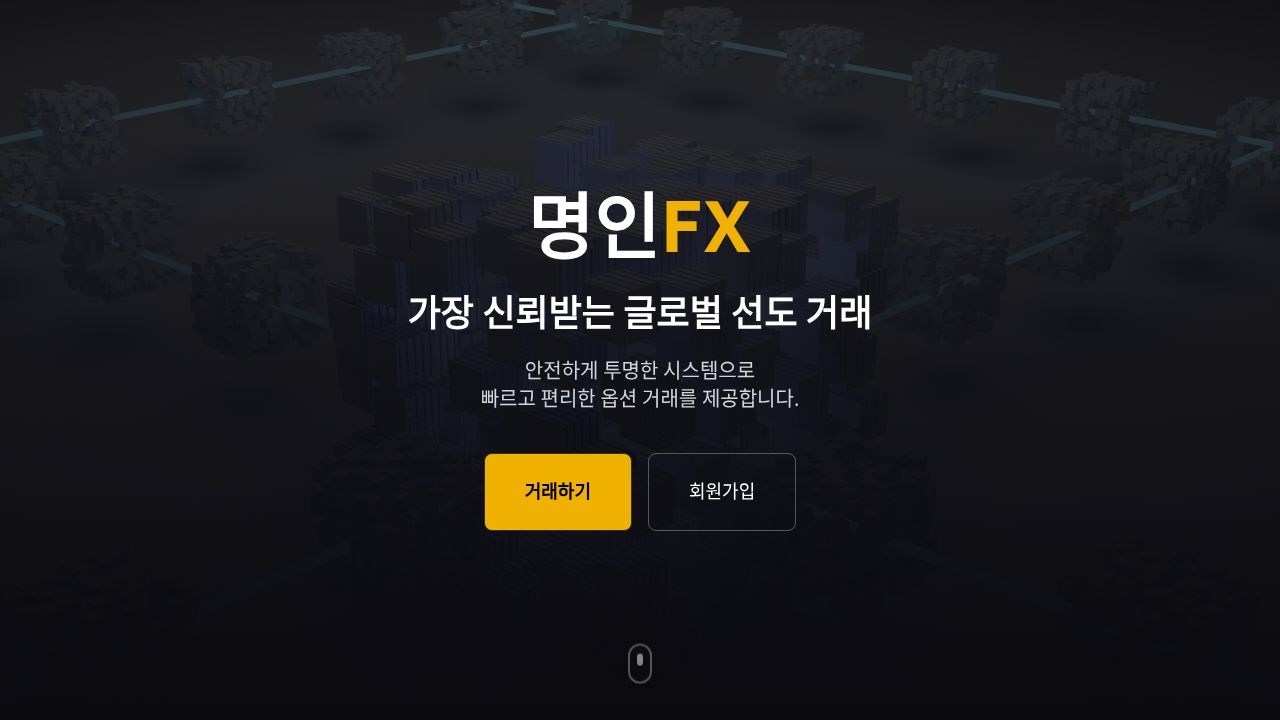
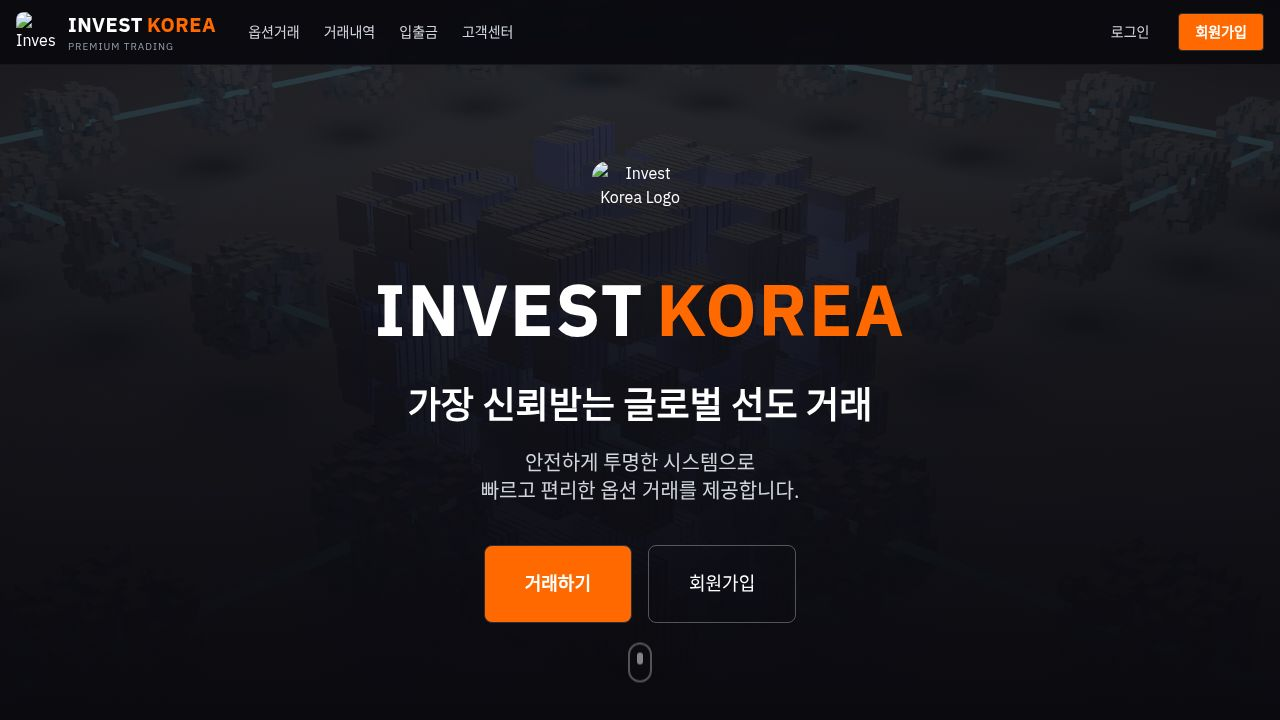
Add a premium login popup to the main screen
Replaces the login button navigation with a modal popup and integrates the login form into the modal component.

Replit-Commit-Author: Agent
Replit-Commit-Session-Id: af8db14b-458c-44db-ac22-345fda6eb96c
Replit-Commit-Checkpoint-Type: full_checkpoint
Replit-Commit-Event-Id: eecd75d1-ec39-4774-b38b-6c1234b8731c
Replit-Commit-Screenshot-Url: https://storage.googleapis.com/screenshot-production-us-central1/cb85b752-5f1c-4b06-97bb-5e828700349a/af8db14b-458c-44db-ac22-345fda6eb96c/FPf0MQk
Replit-Helium-Checkpoint-Created: true

diff --git a/client/src/pages/Landing.tsx b/client/src/pages/Landing.tsx
@@ -1,8 +1,22 @@
+import { useState } from "react";
 import { Link } from "wouter";
 import { Button } from "@/components/ui/button";
-import { Shield, Zap, Headphones, TrendingUp, Lock, Award } from "lucide-react";
+import { Input } from "@/components/ui/input";
+import { Dialog, DialogContent } from "@/components/ui/dialog";
+import { Shield, Zap, Headphones, TrendingUp, Lock, Award, X } from "lucide-react";
+import { useLogin } from "@/hooks/use-auth";
 
 export default function Landing() {
+  const [showLoginModal, setShowLoginModal] = useState(false);
+  const [username, setUsername] = useState("");
+  const [password, setPassword] = useState("");
+  const login = useLogin();
+
+  const handleLoginSubmit = (e: React.FormEvent) => {
+    e.preventDefault();
+    login.mutate({ username, password });
+  };
+
   return (
     <div className="min-h-screen bg-[#0a0a0f] text-white">
       {/* Header */}
@@ -46,11 +60,14 @@ export default function Landing() {
           
           {/* Auth Buttons */}
           <div className="flex items-center gap-3">
-            <Link href="/login">
-              <Button variant="ghost" className="text-gray-300 hover:text-white hover:bg-white/10" data-testid="button-header-login">
-                로그인
-              </Button>
-            </Link>
+            <Button 
+              variant="ghost" 
+              className="text-gray-300 hover:text-white hover:bg-white/10" 
+              data-testid="button-header-login"
+              onClick={() => setShowLoginModal(true)}
+            >
+              로그인
+            </Button>
             <Link href="/register">
               <Button className="bg-orange-500 hover:bg-orange-600 text-white font-semibold" data-testid="button-header-register">
                 회원가입
@@ -257,16 +274,15 @@ export default function Landing() {
             믿을 수 있는 INVEST KOREA에서 시작하세요!
           </p>
           <div className="flex flex-col sm:flex-row gap-4 justify-center">
-            <Link href="/login">
-              <Button 
-                size="lg" 
-                variant="outline" 
-                className="border-white/30 text-white hover:bg-white/10 px-10 py-6 text-lg rounded-lg"
-                data-testid="button-login-cta"
-              >
-                로그인
-              </Button>
-            </Link>
+            <Button 
+              size="lg" 
+              variant="outline" 
+              className="border-white/30 text-white hover:bg-white/10 px-10 py-6 text-lg rounded-lg"
+              data-testid="button-login-cta"
+              onClick={() => setShowLoginModal(true)}
+            >
+              로그인
+            </Button>
             <Link href="/register">
               <Button 
                 size="lg" 
@@ -332,6 +348,95 @@ export default function Landing() {
           </div>
         </div>
       </footer>
+
+      {/* Login Modal */}
+      <Dialog open={showLoginModal} onOpenChange={setShowLoginModal}>
+        <DialogContent className="sm:max-w-md p-0 bg-transparent border-none shadow-none">
+          <div className="relative">
+            <div className="absolute -inset-1 bg-gradient-to-r from-orange-500/20 via-amber-500/20 to-orange-500/20 rounded-2xl blur-xl" />
+            <div className="relative backdrop-blur-xl bg-[#1a1a24]/95 border border-white/10 rounded-2xl p-8 shadow-2xl">
+              <button 
+                onClick={() => setShowLoginModal(false)}
+                className="absolute top-4 right-4 text-gray-400 hover:text-white transition-colors"
+                data-testid="button-close-login-modal"
+              >
+                <X className="w-5 h-5" />
+              </button>
+              
+              <div className="text-center mb-6">
+                <div className="flex items-center justify-center gap-2 mb-4">
+                  <img 
+                    src="/attached_assets/telegram-cloud-photo-size-4-5911208720245394572-x_1765869883507.jpg" 
+                    alt="Invest Korea Logo" 
+                    className="w-12 h-12 rounded-lg object-cover"
+                  />
+                </div>
+                <h2 className="text-2xl font-bold text-white mb-1">로그인</h2>
+                <p className="text-gray-400 text-sm">계정에 접속하여 거래를 시작하세요</p>
+              </div>
+              
+              <form onSubmit={handleLoginSubmit} className="space-y-5">
+                <div className="space-y-2">
+                  <label className="text-sm text-gray-300 font-medium">아이디</label>
+                  <Input
+                    type="text"
+                    value={username}
+                    onChange={(e) => setUsername(e.target.value)}
+                    placeholder="아이디를 입력하세요"
+                    className="h-12 bg-white/5 border-white/10 text-white placeholder:text-gray-500 focus:border-orange-500/50 focus:ring-orange-500/20 transition-all"
+                    data-testid="input-modal-username"
+                    required
+                  />
+                </div>
+
+                <div className="space-y-2">
+                  <label className="text-sm text-gray-300 font-medium">비밀번호</label>
+                  <Input
+                    type="password"
+                    value={password}
+                    onChange={(e) => setPassword(e.target.value)}
+                    placeholder="비밀번호를 입력하세요"
+                    className="h-12 bg-white/5 border-white/10 text-white placeholder:text-gray-500 focus:border-orange-500/50 focus:ring-orange-500/20 transition-all"
+                    data-testid="input-modal-password"
+                    required
+                  />
+                </div>
+
+                <Button
+                  type="submit"
+                  className="w-full h-12 text-lg font-semibold bg-gradient-to-r from-orange-500 via-amber-500 to-orange-600 hover:from-orange-400 hover:via-amber-400 hover:to-orange-500 text-white shadow-lg shadow-orange-500/25 transition-all duration-300 hover:shadow-orange-500/40"
+                  disabled={login.isPending}
+                  data-testid="button-modal-login"
+                >
+                  {login.isPending ? "로그인 중..." : "로그인"}
+                </Button>
+              </form>
+
+              <div className="mt-6 pt-6 border-t border-white/10 text-center text-sm text-gray-400">
+                계정이 없으신가요?{" "}
+                <Link 
+                  href="/register" 
+                  className="text-orange-500 hover:text-orange-400 font-medium transition-colors"
+                  onClick={() => setShowLoginModal(false)}
+                >
+                  회원가입
+                </Link>
+              </div>
+              
+              <div className="mt-4 flex items-center justify-center gap-4 text-xs text-gray-500">
+                <span className="flex items-center gap-1">
+                  <span className="w-1.5 h-1.5 rounded-full bg-emerald-500 animate-pulse" />
+                  실시간 거래
+                </span>
+                <span>|</span>
+                <span>24시간 운영</span>
+                <span>|</span>
+                <span>1.90x 배당</span>
+              </div>
+            </div>
+          </div>
+        </DialogContent>
+      </Dialog>
     </div>
   );
 }
